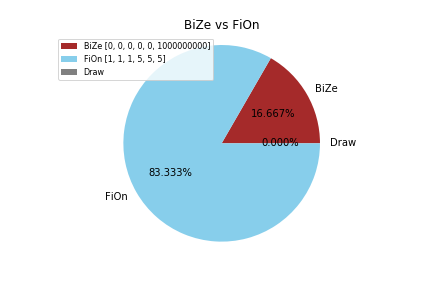
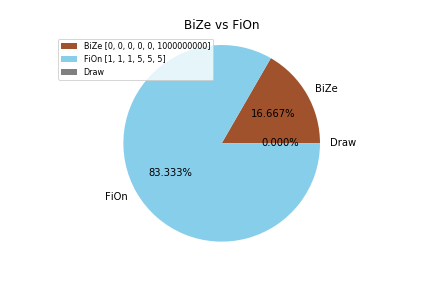
Updated dice names and colors for better reading

Changed region(s): [[0.5116, 0.1875, 0.7523, 0.5], [0.1204, 0.125, 0.1806, 0.1875]]

diff --git a/Non-Transitive Comparison/5 dice (Pie Chart).py b/Non-Transitive Comparison/5 dice (Pie Chart).py
@@ -2,11 +2,11 @@ import matplotlib.pyplot as plt
 
 def die_type(key):
 	switch = {
-	      0: "BiZe", 	#Billion/Zero
-	      1: "Thre", 	#Three Only
-	      2: "FoZe", 	#Four/Zero
-	      3: "FiOn", 	#Five/One
-	      4: "SiTw" 	#Six/Two
+	      0: "Billion-Zero", 	#Billion/Zero
+	      1: "Three-Only", 	#Three Only
+	      2: "Four-Zero", 	#Four/Zero
+	      3: "Five-One", 	#Five/One
+	      4: "Six-Two" 	 	#Six/Two
        }
 	return switch[key]                       
 
@@ -39,11 +39,11 @@ for first in range(len(dice)):
 
 def die_color(key):
 	switch = {
-	    "BiZe" : "brown",
-	    "Thre" : "yellowgreen",
-	    "FoZe" : "coral",
-	    "FiOn" : "skyblue",
-	    "SiTw" : "gold",
+	    "Billion-Zero" : "sienna",
+	    "Three-Only" : "yellowgreen",
+	    "Four-Zero" : "coral",
+	    "Five-One" : "skyblue",
+	    "Six-Two" : "gold",
 	    "Draw" : "gray"
        }
 	return switch[key]
@@ -64,7 +64,7 @@ for first in range(len(dice)):
 				else:
 					draw_score += 1
 								
-		labels = (die_type(first), die_type(second), "Draw")
+		labels = ("", "", "Draw")
 		legend_labels = (die_type(first) + " " +  str(dice[first]), 
 			     die_type(second) + " " + str(dice[second]), 
 			     "Draw")

diff --git a/Non-Transitive Comparison/5 dice (Heat Map).py b/Non-Transitive Comparison/5 dice (Heat Map).py
@@ -41,7 +41,7 @@ for first in range(len(dice)):
 
 def die_color(key):
 	switch = {
-	    "BiZe" : "brown",
+	    "BiZe" : "sienna",
 	    "Thre" : "green",
 	    "FoZe" : "magenta",
 	    "FiOn" : "blue",

diff --git a/Non-Transitive Comparison/5 dice (Table).py b/Non-Transitive Comparison/5 dice (Table).py
@@ -39,7 +39,7 @@ for first in range(len(dice)):
 
 def die_color(key):
 	switch = {
-	    "BiZe" : "brown",
+	    "BiZe" : "sienna",
 	    "Thre" : "green",
 	    "FoZe" : "magenta",
 	    "FiOn" : "blue",
